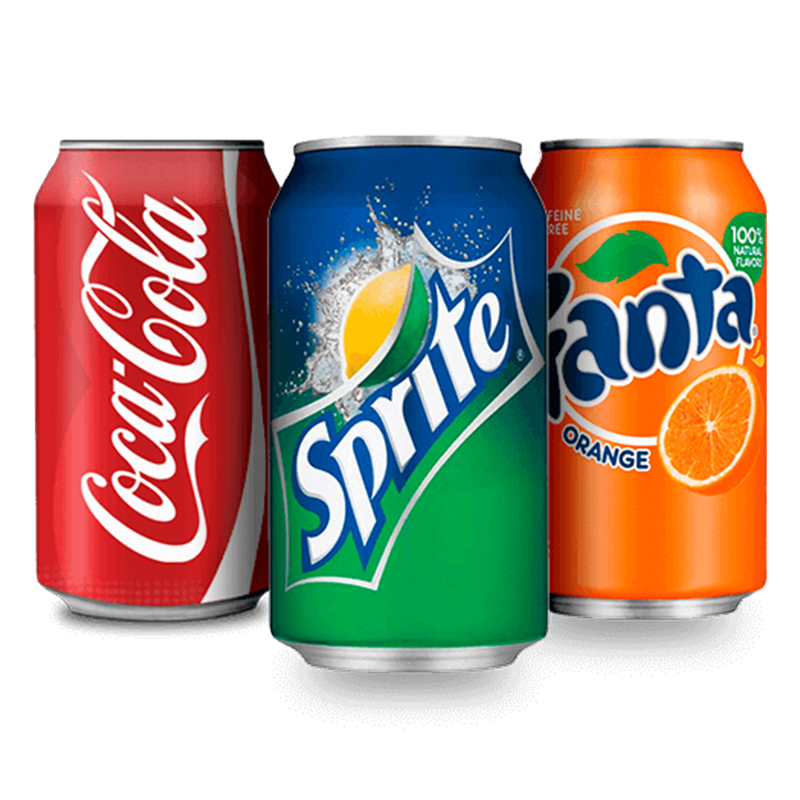
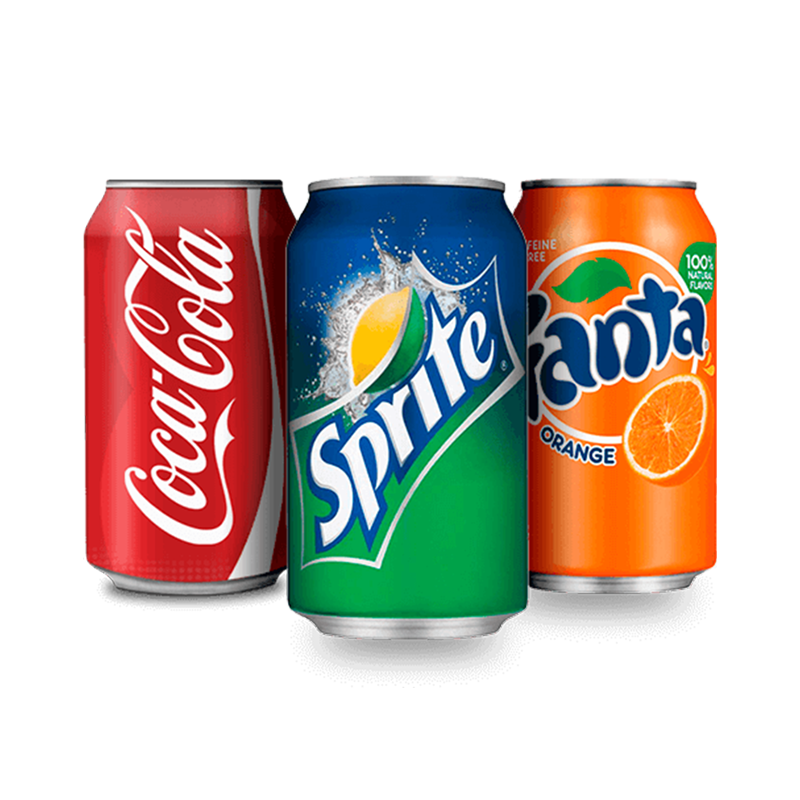
Item, aspect ratio & scroll distance update

diff --git a/index.html b/index.html
@@ -48,9 +48,9 @@
       <section class="can-container">
         <div class="slider-wrapper">
           <div class="slider">
-            <img id="slide-1" class="coke-can" src="Images/Coka-real.PNG" />
-            <img id="slide-2" src="Images/smart-water.png" />
-            <img id="slide-3" class="sprite" src="Images/IMG_2661.PNG" />
+            <img id="slide-1" class="coke-can" src="Images/IMG_2661.PNG" />
+            <img id="slide-2" src="Images/IMG_26671.png" />
+            <img id="slide-3" class="sprite" src="Images/smart-water.png" />
           </div>
 
           <div class="slider-nav">

diff --git a/Styles/Main-assets.css b/Styles/Main-assets.css
@@ -18,13 +18,13 @@
   flex-direction: row;
   justify-content: space-between;
   align-items: center;
-  margin-top: 300px;
+  margin-top: 100px;
   height: 500px;
 }
 
 .can-container {
   padding: 2rem; 
-  margin-top: 100px;
+  margin-top: -40px;
 
 }
 .slider-wrapper {

diff --git a/Styles/Navigators.css b/Styles/Navigators.css
@@ -6,7 +6,7 @@
   flex-direction: row;
   justify-content: space-between;
   align-items: center;
-  margin-top: 200px;
+  margin-top: 80px;
 
   
 }

diff --git a/Styles/General.css b/Styles/General.css
@@ -10,7 +10,7 @@ body {
 }
 
 .space {
-  height: 400px;
+  height: 1000px;
 }
 .space-two {
   height: 1000px;
